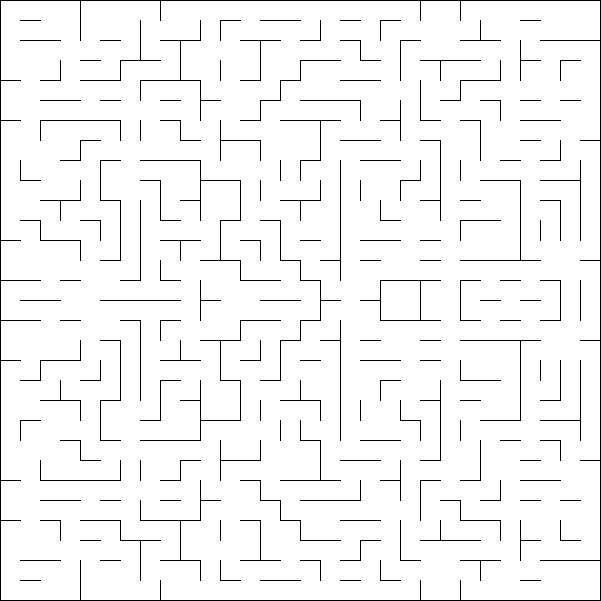
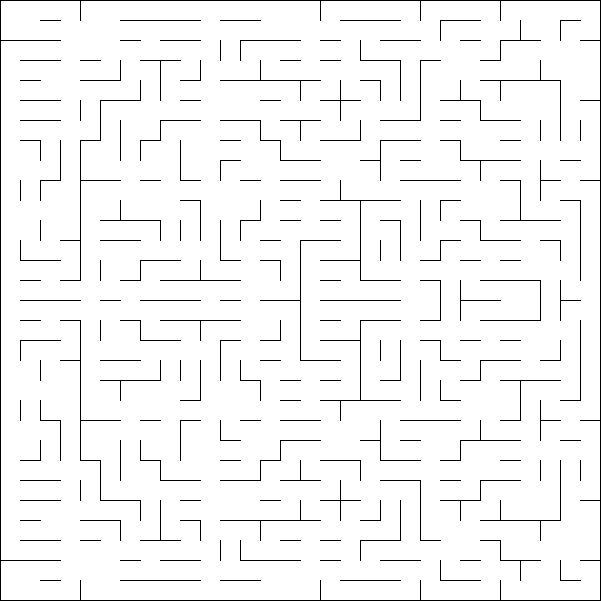
Ajout de l'outils de  benchmark de Rania pour évaluer les propriétés des labyrinthes générés.

diff --git a/test/demo/src/main/java/com/maze/Benchmark.java b/test/demo/src/main/java/com/maze/Benchmark.java
@@ -1,5 +1,123 @@
 package com.maze;
 
-public class Benchmark {
+import java.util.*;
 
+public class Benchmark {
+    private final maze mazeInstance;
+
+    public Benchmark(maze mazeInstance) {
+        this.mazeInstance = mazeInstance;
+    }
+
+    public int mainConnectedComponentSize() {
+        cell startCell = mazeInstance.get(0, 0);
+        if (startCell == null) return 0;
+
+        Set<cell> visited = new HashSet<>();
+        Queue<cell> queue = new LinkedList<>();
+
+        queue.offer(startCell);
+        visited.add(startCell);
+        int count = 0;
+
+        while (!queue.isEmpty()) {
+            cell current = queue.poll();
+            count++;
+            for (cell neighbor : current.links()) {
+                if (!visited.contains(neighbor)) {
+                    visited.add(neighbor);
+                    queue.offer(neighbor);
+                }
+            }
+        }
+        return count;
+    }
+
+    public double mainConnectedComponentRatio() {
+        return (double) mainConnectedComponentSize() / mazeInstance.size();
+    }
+
+    /**
+     * Compte les cul-de-sac.
+     * Le papier de recherche souligne que l'Improved Sidewinder réduit ce nombre[cite: 85, 123].
+     */
+    public int deadEndCount() {
+        // On utilise un tableau à un seul élément pour contourner la restriction effective final des lambdas
+        final int[] count = {0};
+        mazeInstance.eachCell(cell -> {
+            if (cell.links().size() == 1) {
+                count[0]++;
+            }
+        });
+        return count[0];
+    }
+
+    public boolean hasCycles() {
+        Set<cell> visited = new HashSet<>();
+        // On parcourt toutes les cellules au cas où le labyrinthe ne serait pas totalement connecté
+        for (int r = 0; r < mazeInstance.getRows(); r++) {
+            for (int c = 0; c < mazeInstance.getColumns(); c++) {
+                cell start = mazeInstance.get(r, c);
+                if (!visited.contains(start)) {
+                    if (detectCycleDfs(start, null, visited)) {
+                        return true;
+                    }
+                }
+            }
+        }
+        return false;
+    }
+
+    private boolean detectCycleDfs(cell current, cell parent, Set<cell> visited) {
+        visited.add(current);
+
+        for (cell neighbor : current.links()) {
+            if (neighbor == parent) continue;
+
+            if (visited.contains(neighbor)) {
+                return true; // Cycle trouvé
+            }
+
+            if (detectCycleDfs(neighbor, current, visited)) {
+                return true;
+            }
+        }
+        return false;
+    }
+
+
+    public int countOpenZones() {
+        int openZones = 0;
+        int rows = mazeInstance.getRows();
+        int cols = mazeInstance.getColumns();
+
+    // On parcourt la grille jusqu'à l'avant-dernière ligne/colonne
+        for (int r = 0; r < rows - 1; r++) {
+            for (int c = 0; c < cols - 1; c++) {
+                cell a = mazeInstance.get(r, c);
+                cell b = mazeInstance.get(r, c + 1);     // Est de A
+                cell d = mazeInstance.get(r + 1, c);     // Sud de A
+                cell eCell = mazeInstance.get(r + 1, c + 1); // Sud de B / Est de D
+
+                if (a != null && b != null && d != null && eCell != null) {
+                    // Vérification du carré 2x2 interconnecté
+                    if (a.isLinked(b) && a.isLinked(d) && b.isLinked(eCell) && d.isLinked(eCell)) {
+                        openZones++;
+                    }
+                }
+            }
+        }
+    return openZones;
+    }
+
+
+    public void print() {
+        System.out.println("=== Maze Metrics ===");
+        System.out.println("Connected component size  : " + mainConnectedComponentSize());
+        System.out.println("Connected component ratio : " + String.format("%.3f", mainConnectedComponentRatio()));
+        System.out.println("Dead-end count            : " + deadEndCount());
+        System.out.println("Has cycles                : " + hasCycles());
+        System.out.println("Open zones (2x2)         : " + countOpenZones());
+        System.out.println();
+    }
 }

diff --git a/test/demo/src/main/java/com/maze/Main.java b/test/demo/src/main/java/com/maze/Main.java
@@ -4,8 +4,10 @@ public class Main {
     public static void main(String[] args) {
         try {
             maze maze = new maze(30, 30);
-            maze.sidewing(35, 3);
-            maze.braid(40);
+            maze.sidewing(30, 3);
+            maze.braid(20);
+            Benchmark benchmark = new Benchmark(maze);
+            benchmark.print();
             maze.renderMaze(20);
         } catch (Exception e) {
             e.printStackTrace();

diff --git a/test/demo/src/main/java/com/maze/maze.java b/test/demo/src/main/java/com/maze/maze.java
@@ -106,6 +106,14 @@ public cell get(int row, int column) {
         return grid[row][column];
     }
 
+public int getRows() {
+        return rows;
+    }
+
+public int getColumns() {
+        return columns;
+    }
+
 public cell randomCell() {
         int row = random.nextInt(rows);
         int col = random.nextInt(columns);
